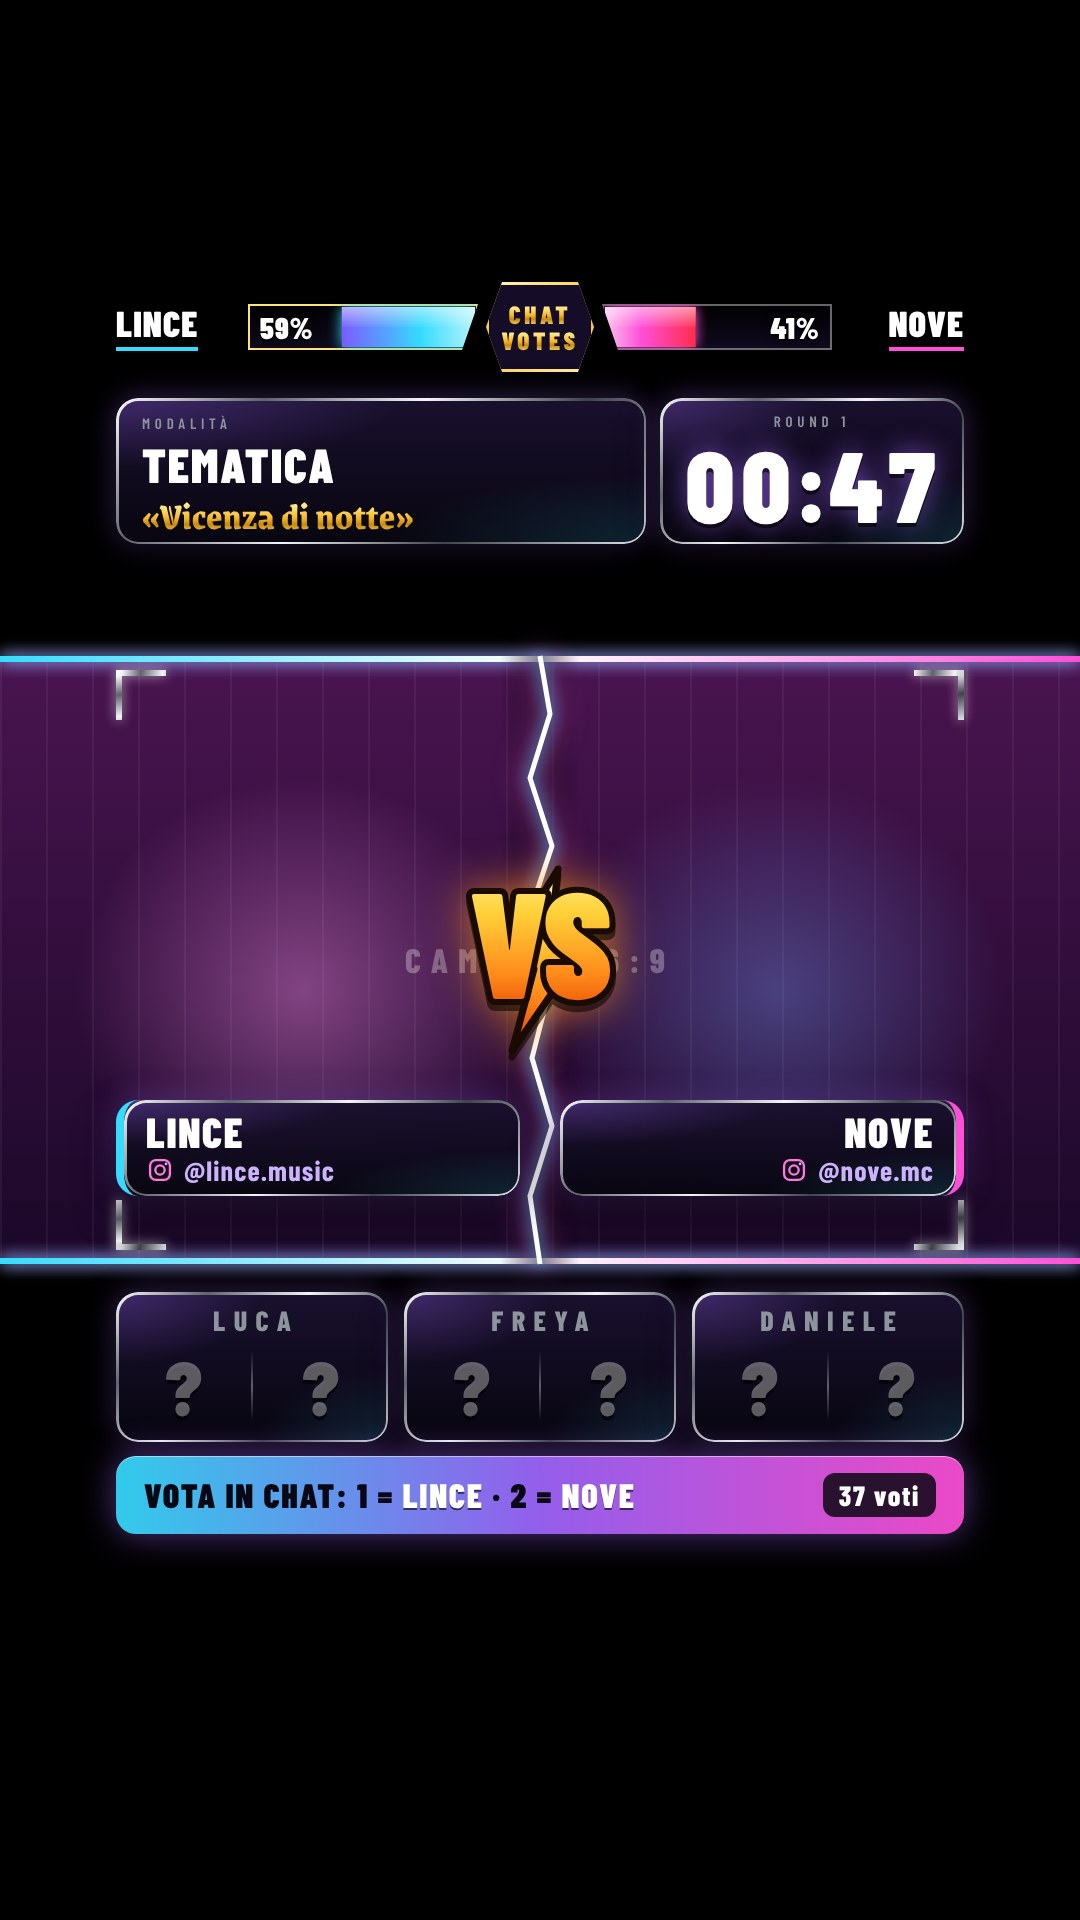
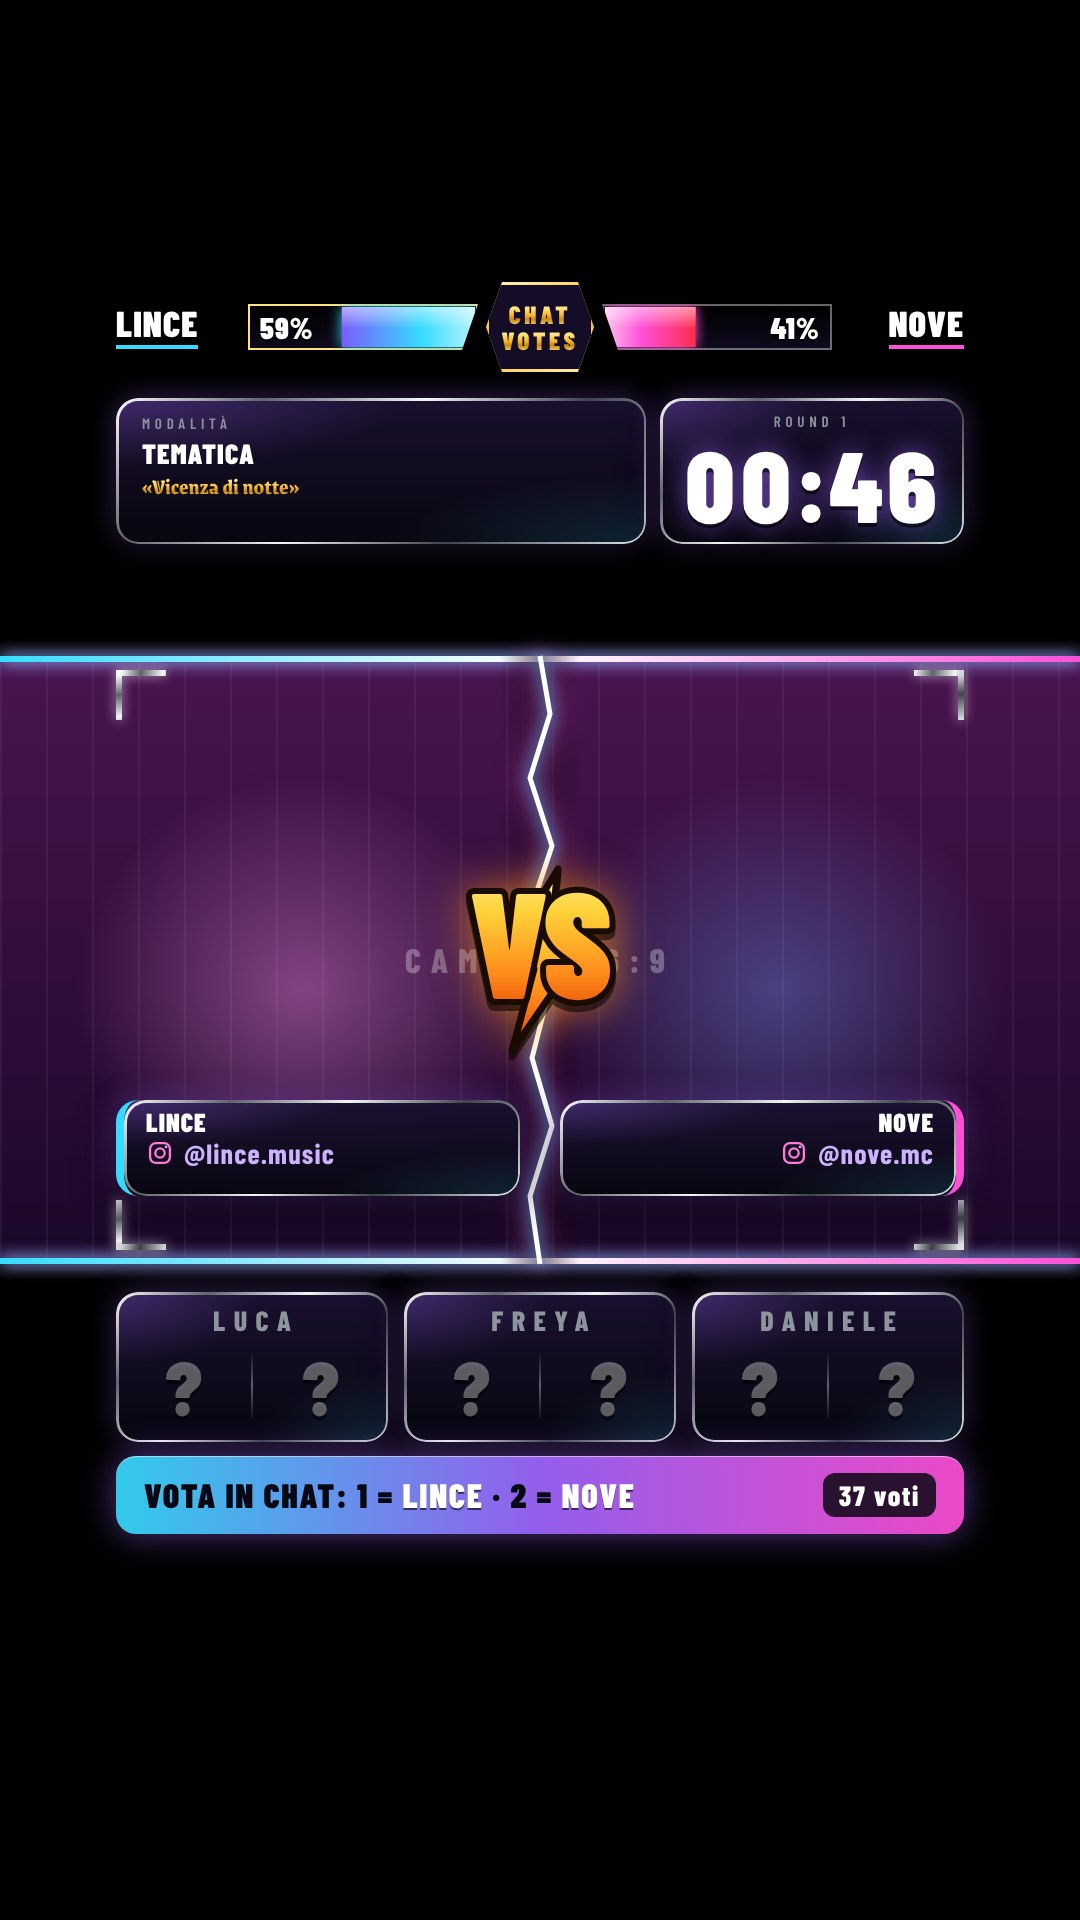
Battle: correzioni dopo la revisione finale [skip netlify]
Sirena e tic dal ciclo della pagina, risultato del torneo legato ai nomi, pari sui totali mostrati, VIA! visibile, nomi lunghi a capo, F4 salva il voto in corso, conferme in regia.

Claude-Session: https://claude.ai/code/session_01KknJSv8vijv85bNpvfWr5a

diff --git a/overlay-live/public/js/regia.js b/overlay-live/public/js/regia.js
@@ -5,7 +5,7 @@
 // Ogni azione è un comando al server; la pagina si ridisegna dallo stato che torna indietro.
 import { collega, formatta, durata } from "./connessione.js";
 import { suona, volume, audioPronto } from "./suoni.js";
-import { suoniTraccia, cambiClassifica, suoniClassifica, suoniTimer, suoniSenzaPremio, suoniBattle, suonaIn, RITARDO_CLASSIFICA_MS } from "./eventi-sonori.js";
+import { suoniTraccia, cambiClassifica, suoniClassifica, suoniTimer, suoniSenzaPremio, suoniBattle, suoniTimerBattle, msTimerBattle, suonaIn, RITARDO_CLASSIFICA_MS } from "./eventi-sonori.js";
 import { percentuali, rimanenteBattleMs } from "./battle-logica.js";
 import { vociBarra, stimaGiroSecondi } from "./barra.js";
 import { vociStudio } from "./studio-logica.js";
@@ -868,8 +868,16 @@ function disegnaBattle(s) {
   disegnaPopupRegia(s);
 }
 
+// Ogni 250 ms: il tempo rimasto e, se i suoni suonano da questa pagina, sirena a 30 secondi e tic negli ultimi 10
+// (non dagli aggiornamenti dello stato: con la chat ferma non arrivano).
+let ultimoTimerBattleMs = null;
 function aggiornaTempoBattle() {
-  if (stato) $("#bt-tempo").textContent = durata(rimanenteBattleMs(stato.battle, conn.ora()));
+  if (!stato) return;
+  const ora = conn.ora();
+  $("#bt-tempo").textContent = durata(rimanenteBattleMs(stato.battle, ora));
+  const corrente = msTimerBattle(stato, ora);
+  if (stato.layout === "battle") riproduci(suoniTimerBattle(ultimoTimerBattleMs, corrente));
+  ultimoTimerBattleMs = corrente;
 }
 setInterval(aggiornaTempoBattle, 250);
 
@@ -975,7 +983,14 @@ function disegnaTabelloneRegia(s) {
 
   riempi($("#bt-partecipanti"), t.torneo.partecipanti.map((p) => p.nome).join("\n"));
   $("#bt-torneo-crea").disabled = b.fase !== "attesa";
-  $("#bt-torneo-sorteggia").disabled = !t.torneo.partecipanti.length || t.torneo.partite.some((p) => p.vincitore !== null);
+  $("#bt-torneo-sorteggia").disabled = !t.torneo.partecipanti.length || t.torneo.partite.some((p) => p.vincitore !== null) || b.fase !== "attesa";
+  // Scelta rapida dei nomi dai partecipanti del torneo e dagli artisti della classifica (evita errori di battitura).
+  const nomi = [...new Set([...t.torneo.partecipanti.map((p) => p.nome), ...t.punti.artisti.map((a) => a.nome)])];
+  const lista = $("#bt-nomi");
+  if (lista.dataset.firma !== nomi.join("|")) {
+    lista.dataset.firma = nomi.join("|");
+    lista.replaceChildren(...nomi.map((n) => el("option", { value: n })));
+  }
   disegnaPartiteRegia(b);
 
   riempi($("#bt-artisti-punti"), t.punti.artisti.map((a) => a.nome).join("\n"));
@@ -1011,6 +1026,7 @@ const elencoSalvato = (campo) => delete campo.dataset.modificato;
 $("#bt-bracket").addEventListener("click", () => stato && invia("tabellone", { visibile: !stato.visibili.bracket }));
 for (const chip of document.querySelectorAll("#bt-modo-tabellone [data-modo]")) chip.addEventListener("click", () => invia("tabellone", { modo: chip.dataset.modo }));
 $("#bt-torneo-crea").addEventListener("click", async () => {
+  if (stato?.battle.tabellone.torneo.partite.some((p) => p.vincitore !== null) && !confirm("Ci sono partite già giocate: ricreando il torneo si perdono. Continuare?")) return;
   const esito = await invia("torneo", { azione: "crea", partecipanti: righeDiTesto($("#bt-partecipanti").value) });
   if (esito.ok) {
     elencoSalvato($("#bt-partecipanti"));
@@ -1059,7 +1075,22 @@ async function salvaPopup(elenco = leggiComparse($("#bt-popup-lista"))) {
 }
 
 // ----- Comandi del battle -----
-const battleAvvia = () => invia("battleAvvia");
+// Prima di avviare, due avvisi che evitano risultati persi: un rapper che non è nella classifica a punti non fa punti,
+// e uno scontro che non è una partita del torneo non fa avanzare nessuno.
+async function battleAvvia() {
+  const b = stato?.battle;
+  if (b?.fase === "attesa") {
+    const t = b.tabellone;
+    if (t.modo === "punti" && t.punti.artisti.length) {
+      const elenco = new Set(t.punti.artisti.map((a) => a.nome.toLowerCase()));
+      const fuori = [b.sx.nome, b.dx.nome].filter((n) => n && !elenco.has(n.toLowerCase()));
+      if (fuori.length && !confirm(`${fuori.map((n) => `«${n}»`).join(" e ")} non ${fuori.length > 1 ? "sono" : "è"} nella classifica a punti: ${fuori.length > 1 ? "non faranno" : "non farà"} punti. Avviare lo stesso?`)) return;
+    } else if (t.modo === "torneo" && t.torneo.partite.length && !b.partitaId) {
+      if (!confirm("Questo scontro non è una partita del torneo: il risultato non farà avanzare nessuno. Avviare lo stesso?")) return;
+    }
+  }
+  return invia("battleAvvia");
+}
 const battleRivela = () => invia("battleRivela");
 const battleProssimo = () => invia("battleProssimo");
 const battlePausa = () => stato && invia("battleTimer", { azione: stato.battle.timer.fineAlle !== null ? "pausa" : "riprendi" });
@@ -1139,5 +1170,7 @@ addEventListener("keydown", (e) => {
   const azione = e.key === "Enter" && e.ctrlKey ? (inBattle ? battleRivela : conferma) : azioni[e.key];
   if (!azione || e.repeat) return;
   e.preventDefault();
+  // Un voto scritto ma non ancora salvato (il cursore è ancora nel campo) parte prima del comando: altrimenti Rivela userebbe il vecchio.
+  if (inBattle) document.activeElement?.blur?.();
   azione();
 });

diff --git a/overlay-live/public/js/battle.js b/overlay-live/public/js/battle.js
@@ -7,7 +7,7 @@
 // ?w=barre,modalita,timer,camera,artisti,giudici,chat,popup,tabellone,conto (parti da includere).
 import { collega, durata } from "./connessione.js";
 import { suona, volume } from "./suoni.js";
-import { suoniBattle, suonaIn } from "./eventi-sonori.js";
+import { suoniBattle, suoniTimerBattle, msTimerBattle, suonaIn } from "./eventi-sonori.js";
 import { prossimaComparsa } from "./studio-logica.js";
 import { disegnaTabellone } from "./battle-tabellone.js";
 import {
@@ -82,7 +82,7 @@ function scrivi(el, testo) {
 function adattaTesto(el, massimo, minimo) {
   let corpo = massimo;
   el.style.fontSize = `${corpo}px`;
-  while (el.scrollWidth > el.clientWidth && corpo > minimo) {
+  while ((el.scrollWidth > el.clientWidth || el.scrollHeight > el.clientHeight) && corpo > minimo) {
     corpo -= 2;
     el.style.fontSize = `${corpo}px`;
   }
@@ -119,9 +119,12 @@ const conn = collega({
 // Gli effetti suonano qui solo se la regia ha scelto «overlay» e in onda c'è il battle.
 function suoni(prima, s, eventi) {
   if (MUTO || !prima || !suonaIn(s, "battle", "overlay")) return;
-  const lista = suoniBattle(prima, s, eventi);
+  riproduci(suoniBattle(prima, s, eventi));
+}
+
+function riproduci(lista) {
   if (!lista.length) return;
-  volume(s.suoni.volume);
+  volume(stato.suoni.volume);
   for (const x of lista) suona(x.nome, x.dati, x.ritardo ?? 0);
 }
 
@@ -148,7 +151,7 @@ function disegnaBarre(b) {
   for (const lato of LATI) {
     const nome = $(`#bt-nome-${lato}`);
     nome.textContent = nomi[lato];
-    adattaTesto(nome, 36, 20);
+    adattaTesto(nome, 36, 18);
     $(`#bt-perc-${lato}`).textContent = `${perc[lato]}%`;
     const barra = $(`.bt-barra.${lato}`);
     barra.style.setProperty("--q", b.quota[lato]);
@@ -231,27 +234,49 @@ function tick() {
 }
 if (!STATICO) setInterval(tick, 50);
 
+// Sirena a 30 secondi e tic negli ultimi 10: dal ciclo della pagina (ogni 50 ms), non dagli aggiornamenti dello stato,
+// che con la chat ferma non arrivano per tutto il round.
+let ultimoTimerMs = null;
+
+function suonaTimer(ora) {
+  const corrente = msTimerBattle(stato, ora);
+  if (!MUTO && suonaIn(stato, "battle", "overlay")) riproduci(suoniTimerBattle(ultimoTimerMs, corrente));
+  ultimoTimerMs = corrente;
+}
+
 function aggiornaTimer() {
   const b = stato.battle;
   const ms = rimanenteBattleMs(b, conn.ora());
+  suonaTimer(conn.ora());
   scrivi($("#bt-timer-etichetta"), `Round ${b.round}`);
   scrivi($("#bt-timer-cifre"), durata(ms));
   $("#bt-timer").classList.toggle("urgente", b.fase === "battle" && b.timer.fineAlle !== null && timerUrgente(ms));
 }
 
 // ---------- 3-2-1 a tutto schermo ----------
-const conto = { strato: $("#bt-conto"), numero: $("#bt-conto-numero"), ultimo: null };
+const conto = { strato: $("#bt-conto"), numero: $("#bt-conto-numero"), ultimo: null, attivo: false, viaFinoAlle: 0 };
+const DURATA_VIA_MS = 900;
 
 function aggiornaConto() {
   const b = stato.battle;
+  const adesso = performance.now();
   const inConto = b.fase === "countdown" || CONTO_FISSO > 0;
-  const visibile = inConto && PARTI.includes("conto");
+  if (inConto) conto.attivo = true;
+  // Dopo l'1 il server passa al battle entro 250 ms: senza una pausa il «VIA!» sarebbe visibile un attimo.
+  // Resta su qualche istante anche dopo il passaggio (solo se si è visto il 3-2-1: mai a una pagina ricaricata, mai dopo un Reset).
+  if (!inConto && conto.attivo) {
+    conto.attivo = false;
+    if (b.fase === "battle" && !STATICO) conto.viaFinoAlle = adesso + DURATA_VIA_MS;
+  }
+  const inVia = !inConto && adesso < conto.viaFinoAlle;
+  const visibile = (inConto || inVia) && PARTI.includes("conto");
   conto.strato.hidden = !visibile;
+  conto.strato.classList.toggle("dopo", inVia);
   if (!visibile) {
     conto.ultimo = null;
     return;
   }
-  const n = CONTO_FISSO || numeroConto(b.conto.finoAlle, conn.ora());
+  const n = inVia ? 0 : CONTO_FISSO || numeroConto(b.conto.finoAlle, conn.ora());
   if (n === conto.ultimo) return;
   conto.ultimo = n;
   conto.numero.textContent = n > 0 ? String(n) : "VIA!";

diff --git a/overlay-live/public/js/eventi-sonori.js b/overlay-live/public/js/eventi-sonori.js
@@ -141,11 +141,14 @@ export function suoniTimerBattle(msPrima, msDopo) {
   return [];
 }
 
-// Tempo rimasto solo mentre il timer corre: in ogni altro momento non c'è niente da confrontare.
-const msTimer = (s) => (s.battle.fase === "battle" && s.battle.timer.fineAlle !== null ? rimanenteBattleMs(s.battle, s.ora) : null);
+// Tempo rimasto solo mentre il timer corre (null in pausa, prima del via e a fine round): in quei momenti non c'è
+// niente da confrontare. Lo usa il ciclo della pagina e della regia, ogni 50/250 ms, per far suonare sirena e tic:
+// non dipende dagli aggiornamenti dello stato, che con la chat ferma non arrivano per tutto il round.
+export const msTimerBattle = (s, ora) => (s.battle.fase === "battle" && s.battle.timer.fineAlle !== null ? rimanenteBattleMs(s.battle, ora) : null);
 const haCampione = (s) => Boolean(s.battle.tabellone.punti.vincitore || s.battle.tabellone.torneo.campione);
 
-// Suoni del battle: i tre bip del 3-2-1, gong (con lo spacco al via), timer, rivelazione dei voti e fanfara del campione.
+// Suoni del battle: i tre bip del 3-2-1, gong (con lo spacco al via), rivelazione dei voti e fanfara del campione
+// (sirena e tic del timer suonano dal ciclo della pagina: vedi msTimerBattle).
 // Il 3-2-1 e la rivelazione sono programmati con un ritardo per ogni suono, così restano allineati alla grafica.
 export function suoniBattle(prima, dopo, eventi = []) {
   if (!prima) return [];
@@ -161,7 +164,6 @@ export function suoniBattle(prima, dopo, eventi = []) {
     suoni.push({ nome: "gong" });
     if (e.dati?.quando === "inizio") suoni.push({ nome: "spacco" });
   }
-  suoni.push(...suoniTimerBattle(msTimer(prima), msTimer(dopo)));
   const rivelato = a.fase === "voto" && b.fase === "risultato" && b.risultato;
   if (rivelato) {
     for (const passo of sequenzaRivelazione(b.risultato)) {

diff --git a/overlay-live/public/regia.html b/overlay-live/public/regia.html
@@ -377,9 +377,10 @@
           <h3>Round</h3>
           <p class="bt-stato"><b id="bt-fase"></b> · <span id="bt-round"></span> · <span id="bt-tempo"></span><br><span id="bt-quota"></span></p>
           <form id="f-bt-scontro" class="modulo sp-campi" autocomplete="off">
-            <label>Sinistra · nome <input name="sxNome" maxlength="24" placeholder="es. Lince"></label>
+            <datalist id="bt-nomi"></datalist>
+            <label>Sinistra · nome <input name="sxNome" list="bt-nomi" maxlength="24" placeholder="es. Lince"></label>
             <label>Instagram <input name="sxInstagram" maxlength="80" placeholder="@nome.artista"></label>
-            <label>Destra · nome <input name="dxNome" maxlength="24" placeholder="es. Nove"></label>
+            <label>Destra · nome <input name="dxNome" list="bt-nomi" maxlength="24" placeholder="es. Nove"></label>
             <label>Instagram <input name="dxInstagram" maxlength="80" placeholder="@nome.artista"></label>
             <div class="azioni largo">
               <button class="primario" title="Si cambiano tra un round e l'altro">Applica nomi</button>

diff --git a/overlay-live/public/css/battle.css b/overlay-live/public/css/battle.css
@@ -119,9 +119,12 @@ body.bt.anteprima {
 .bt-nome span {
   display: block;
   max-width: 100%;
+  max-height: 90px;
   overflow: hidden;
-  white-space: nowrap;
-  font: 900 36px/1.1 var(--font-dati);
+  /* i nomi lunghi vanno a capo (fino a 24 caratteri) e il corpo si riduce solo quanto serve */
+  white-space: normal;
+  overflow-wrap: anywhere;
+  font: 900 36px/1.02 var(--font-dati);
   letter-spacing: 0.03em;
   text-transform: uppercase;
   color: #fff;
@@ -659,6 +662,11 @@ body.bt.anteprima {
   display: grid;
   place-items: center;
   background: radial-gradient(60% 40% at 50% 50%, rgba(20, 8, 40, 0.55), rgba(5, 3, 12, 0.82));
+}
+/* Dopo l'1 il «VIA!» resta su un istante e lo sfondo si apre: dietro si vedono il fulmine e il VS che entrano. */
+.bt-conto.dopo {
+  background: transparent;
+  transition: background 0.25s ease;
 }
 .bt-conto-numero {
   font: 900 560px/1 var(--font-dati);

diff --git a/docs/superpowers/specs/2026-10-06-battle-overlay-design.md b/docs/superpowers/specs/2026-10-06-battle-overlay-design.md
@@ -94,8 +94,9 @@ come negli altri layout. Con `?guide=1` si vedono tagli dei telefoni e zone TikT
 - Ogni giudice dà ogni voto da 0 a 10 con un decimale (stessa `normalizzaVoto` della gara).
 - `chat(sx) = 10 × quota(sx)`, `chat(dx) = 10 × quota(dx)`.
 - `totale(lato) = (voto Luca + voto Freya + voto Daniele + chat) / 4`, arrotondato a 2 decimali (25% ciascuno).
-- Vince il totale più alto. Differenza minore di 0,005 = **pari merito**: il round resta in `risultato` con
-  `pari: true` finché la regia non usa `battleProclama { lato }`.
+- Vince il totale più alto **come mostrato** (due decimali): due totali uguali sullo schermo sono un **pari merito**
+  (correzione dopo la revisione: decidere sui totali non arrotondati poteva dare un vincitore con totali uguali
+  sullo schermo). Il round resta in `risultato` con `pari: true` finché la regia non usa `battleProclama { lato }`.
 - Una volta deciso il vincitore, il round viene **registrato una sola volta** (flag `registrato`) nel tabellone attivo.
 
 ### 5.4 Modalità
@@ -205,8 +206,10 @@ camera), `&guide=1`, `&statico=1`, `&fase=` (per i mockup), `?w=` per separare l
 Nuovi effetti in `suoni.js` (sintetizzati con Web Audio, nessun file): `gong`, `conto` (bip del 3-2-1, più acuto
 sull'1) e `spacco` (schiocco del fulmine). Si riusano `allarme` (a 30 s dalla fine), `tic` (ultimi 10 s), `voto`,
 `calcolo`, `risultato` e `vincitore`. I pop-up non suonano. La funzione pura `suoniBattle(prima, dopo, eventi)` in
-`eventi-sonori.js` decide quando partono (testata). Suona solo la pagina del layout in onda, con le stesse opzioni
-di destinazione (overlay / regia / spenti) della gara; il layout `studio` resta senza suoni.
+`eventi-sonori.js` decide quando partono (testata). Sirena a 30 secondi e tic degli ultimi 10 suonano dal ciclo della
+pagina (ogni 50 ms; nella regia ogni 250 ms) con `suoniTimerBattle` e `msTimerBattle`, non dagli aggiornamenti dello
+stato: con la chat ferma il server non manda aggiornamenti per tutto il round. Suona solo la pagina del layout in onda,
+con le stesse opzioni di destinazione (overlay / regia / spenti) della gara; il layout `studio` resta senza suoni.
 
 ## 9. Regia
 

diff --git a/overlay-live/README.md b/overlay-live/README.md
@@ -142,7 +142,7 @@ Il timer diventa rosso e lampeggia negli ultimi 30 secondi; **Pausa (F9)** lo fe
 
 Giudici e barra della chat stanno nella zona dei commenti di TikTok (1200–1700): con la chat molto attiva i commenti coprono la parte sinistra dei box. Si cambiano nel blocco di variabili in cima a `public/css/battle.css`. **Se la camera nella vostra scena è 4:3 (circa y 550 → 1363)**, cambiate `--bt-y-camera` e `--bt-h-camera`: box degli artisti, giudici e barra della chat seguono il fondo della camera; barre della vita, modalità, timer e pop-up restano dove sono. Parametri: `?anteprima=1` (sfondo nero e finta camera), `&guide=1` (tagli dei telefoni e zone di TikTok), `&statico=1`, `&muto=1`, `&conto=3` (3-2-1 fermo), `&popup=1` (primo pop-up fermo), `?w=barre,modalita,timer,camera,artisti,giudici,chat,popup,tabellone,conto`.
 
-Per rifare i mockup e controllare che ogni pezzo stia dove dice la tabella (serve Playwright installato a parte, non fa parte di `npm test`): `node strumenti/mockup-battle.mjs --base http://127.0.0.1:4747 --fase battle` (fasi: `attesa`, `countdown`, `battle`, `voto`, `risultato`, `pari`, `torneo`, `punti`; opzioni `--guida`, `--secondi N`, `--conto N`, `--popup`) e, per provare la regia, `--regia`. I dati di prova li mette il comando `battleDemo`.
+Per rifare i mockup e controllare che ogni pezzo stia dove dice la tabella (serve Playwright installato a parte, non fa parte di `npm test`): `node strumenti/mockup-battle.mjs --base http://127.0.0.1:4747 --fase battle` (fasi: `attesa`, `countdown`, `battle`, `voto`, `risultato`, `pari`, `torneo`, `punti`; opzioni `--guida`, `--secondi N`, `--conto N`, `--popup`), per provare la regia `--regia`, e `--controlli` per verificare che i nomi lunghi entrino nei riquadri e che «VIA!» resti visibile. **Usatelo su una porta di prova, non durante la diretta**: i dati di prova azzerano torneo e punti. I dati di prova li mette il comando `battleDemo`.
 
 ## Effetti sonori
 
